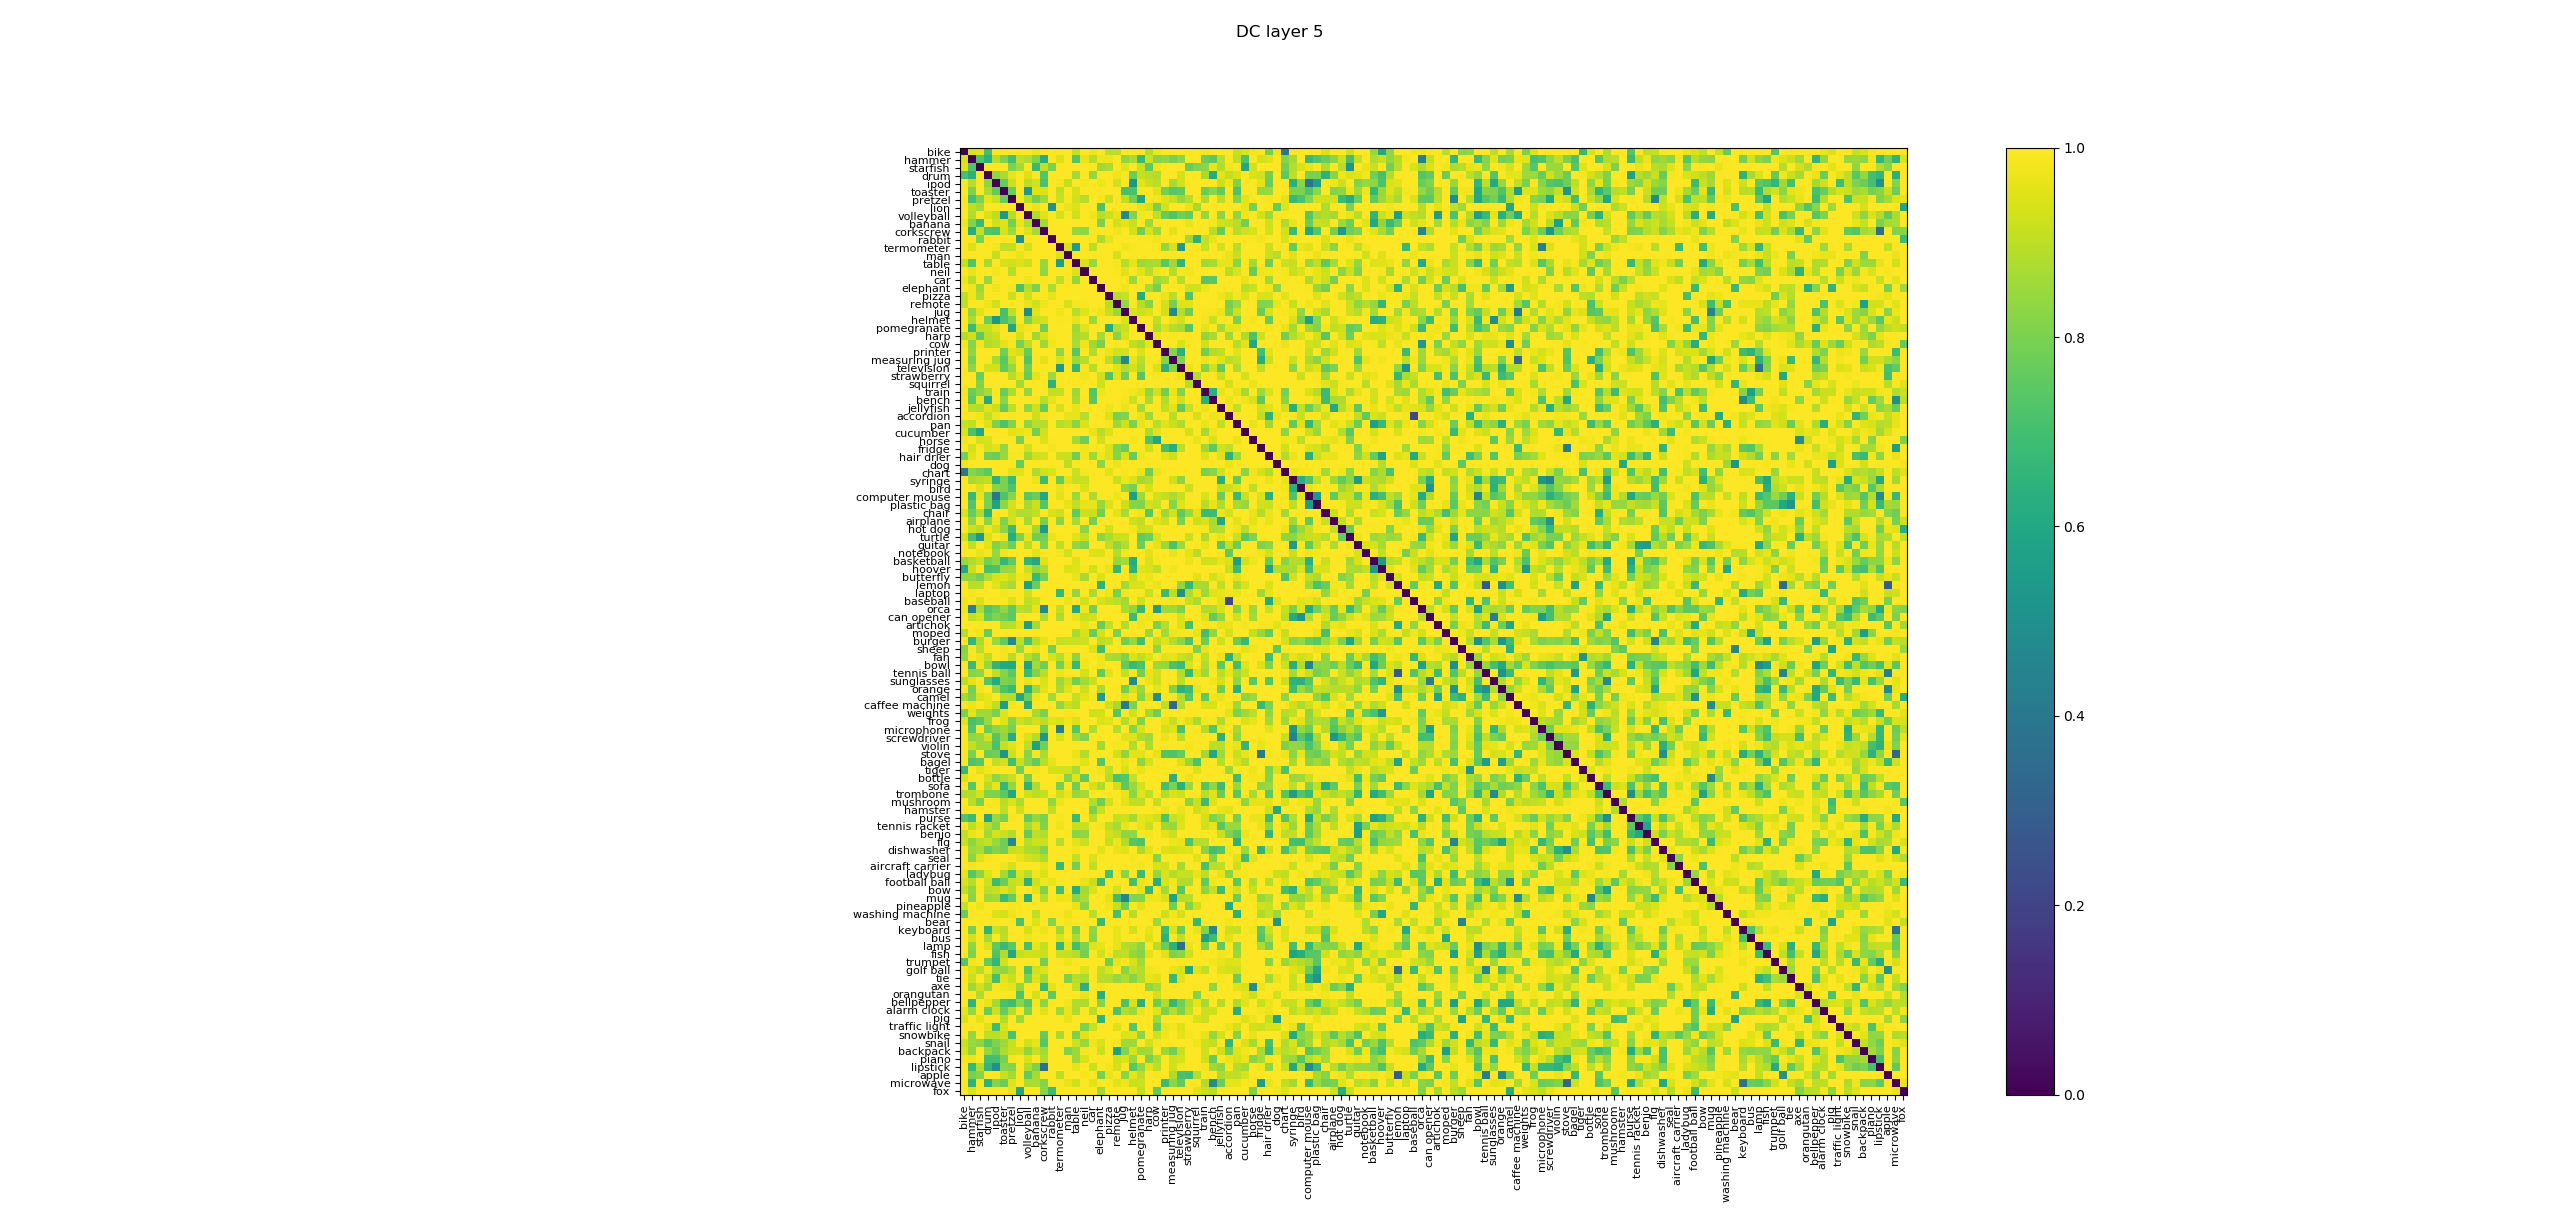
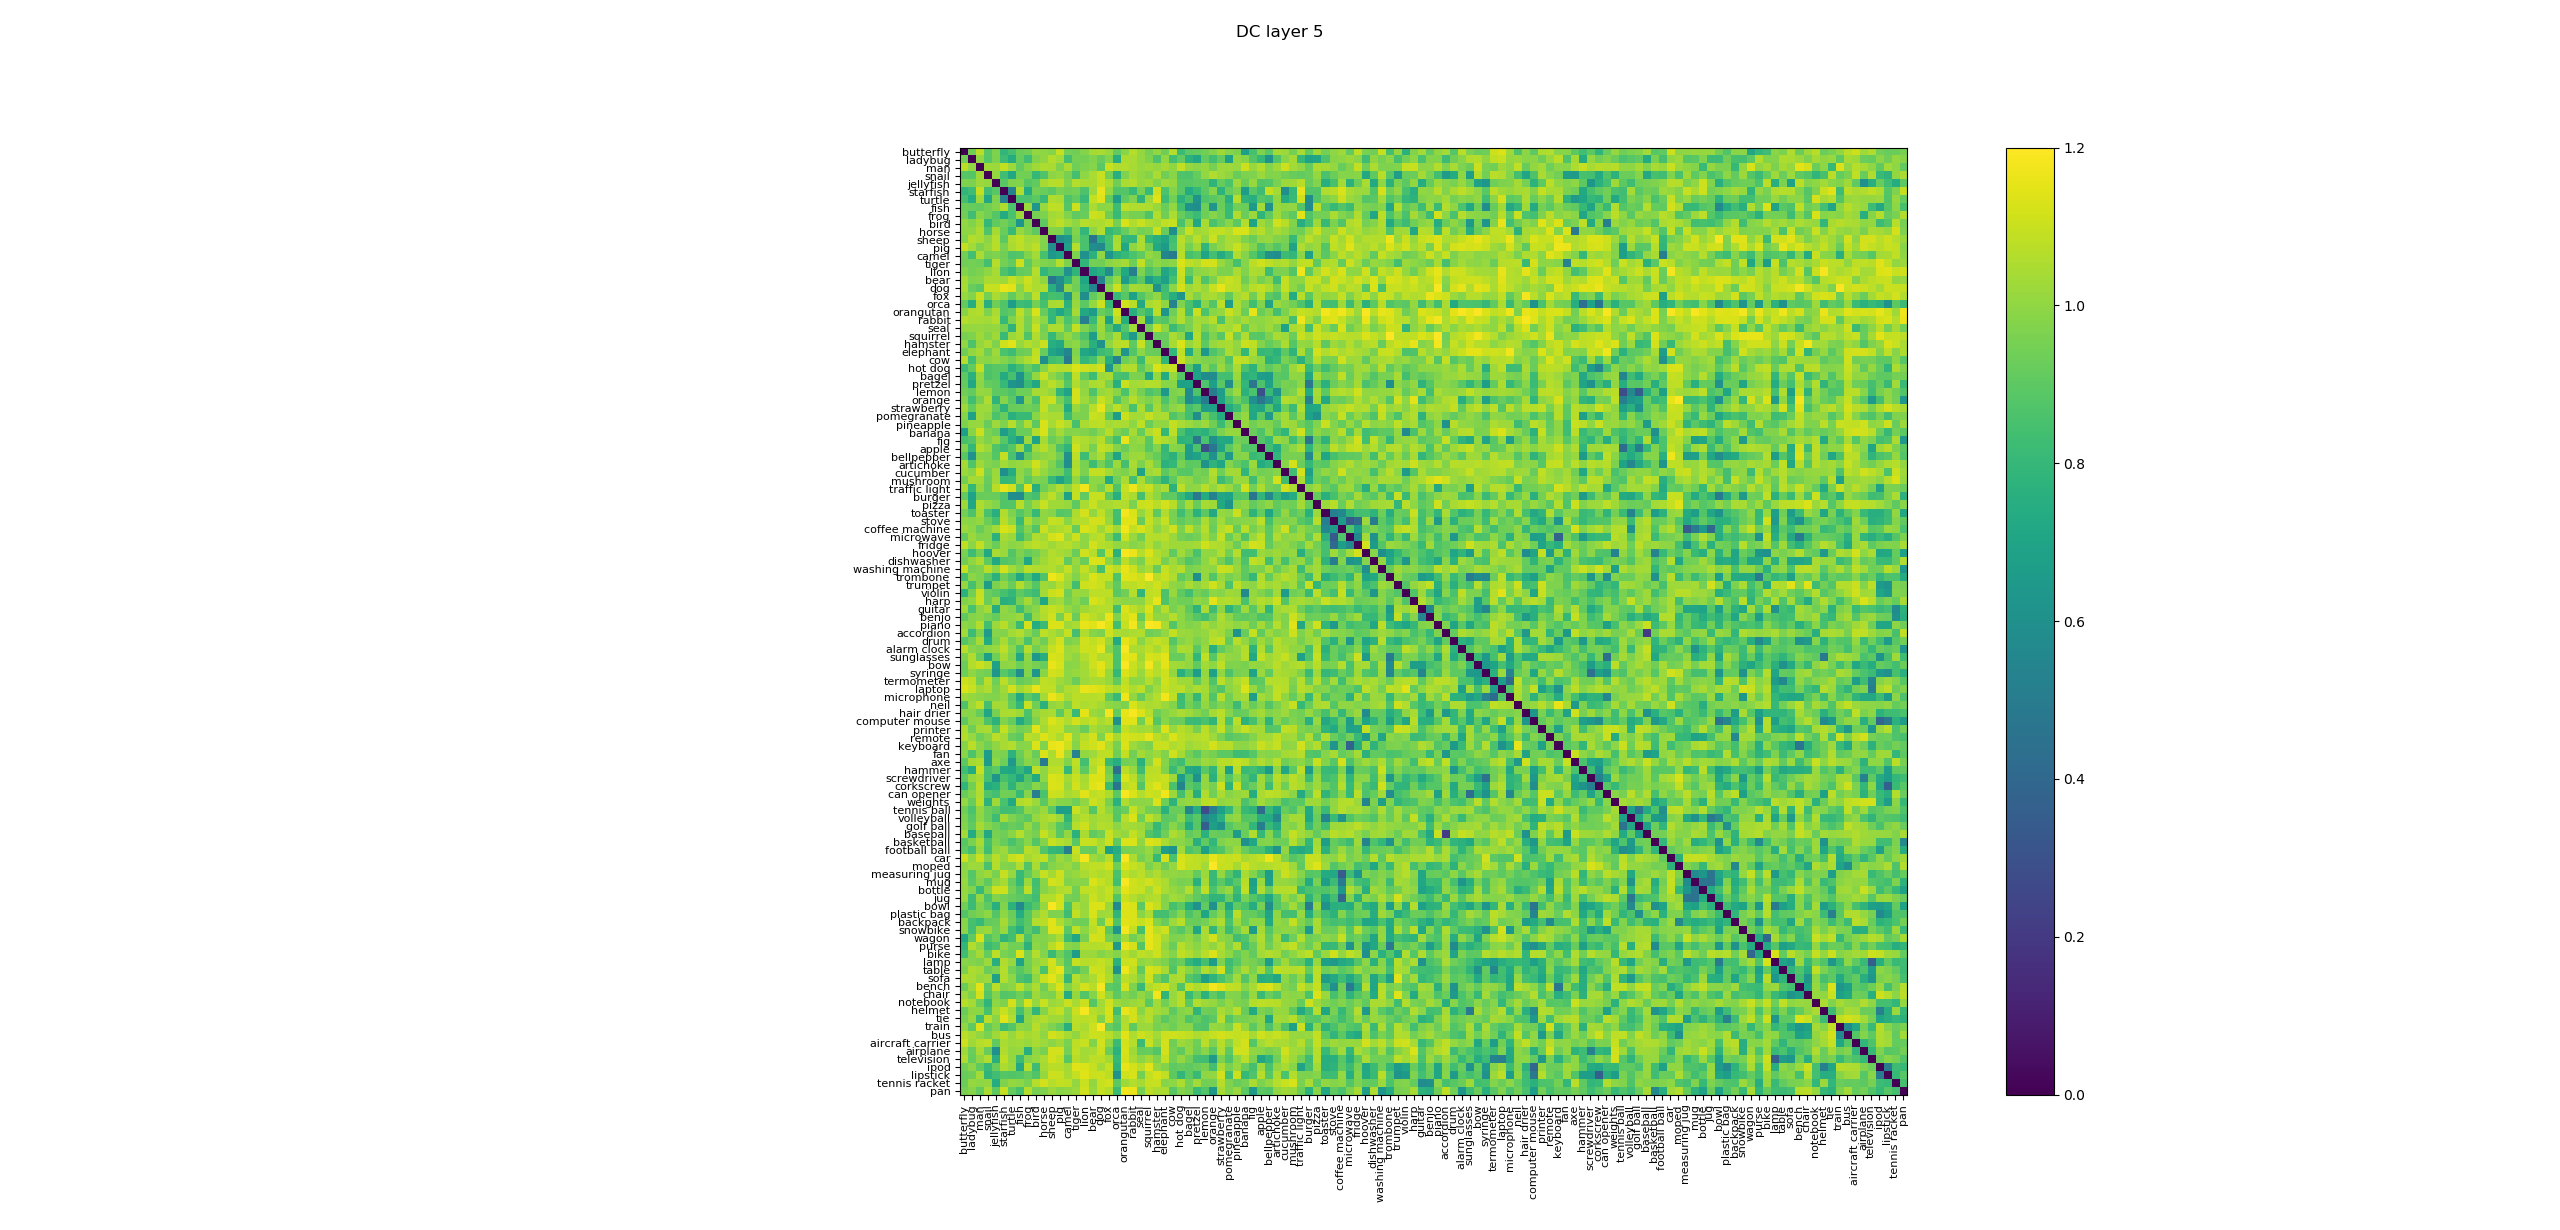
corrected lch based clustering

Changed region(s): [[0.3438, 0.1236, 0.75, 0.9577]]

diff --git a/chicy118_img_dictionaries.py b/chicy118_img_dictionaries.py
@@ -2,7 +2,7 @@ import pickle
 import os
 
 ## define images names and synsets
-img_names = {'001':'orange','002':'bench','003':'remote','004':'car','005':'stove','006':'man','007':'table','008':'apple','009':'chart','010':'dog','011':'fox','012':'bus','013':'train','014':'ipod',
+img_names = {'001':'orange','002':'bench','003':'remote','004':'car','005':'stove','006':'man','007':'table','008':'apple','009':'wagon','010':'dog','011':'fox','012':'bus','013':'train','014':'ipod',
                 '015':'pizza','016':'bird','017':'horse','018':'laptop','019':'bear','020':'basketball','021':'piano','022':'guitar','023':'baseball','024':'seal','025':'chair','026':'orangutan','027':'bowl',
                 '028':'tiger','029':'moped','030':'tie','031':'printer','032':'lion','033':'neil','034':'drum','035':'bow','036':'fig','037':'butterfly','038':'lamp','039':'banana','040':'sofa',
                 '041':'lemon','042':'hoover','043':'hammer','044':'sunglasses','045':'bike','046':'rabbit','047':'measuring jug','048':'elephant','049':'microwave','050':'volleyball','051':'strawberry',
@@ -10,13 +10,13 @@ img_names = {'001':'orange','002':'bench','003':'remote','004':'car','005':'stov
                 '064':'backpack','065':'purse','066':'hamster','067':'microphone','068':'mushroom','069':'cow','070':'violin','071':'orca','072':'cucumber','073':'termometer','074':'pineapple','075':'harp',
                 '076':'squirrel','077':'notebook','078':'trumpet','079':'plastic bag','080':'jug','081':'snail','082':'toaster','083':'benjo','084':'screwdriver','085':'snowbike','086':'pig',
                 '087':'pomegranate','088':'accordion','089':'tennis racket','090':'bagel','091':'trombone','092':'syringe','093':'fish','094':'hair drier','095':'starfish','096':'hot dog','097':'ladybug',
-                '098':'aircraft carrier','099':'jellyfish','100':'caffee machine','101':'television','102':'pretzel','103':'artichok','104':'golf ball','105':'alarm clock','106':'traffic light',
+                '098':'aircraft carrier','099':'jellyfish','100':'coffee machine','101':'television','102':'pretzel','103':'artichoke','104':'golf ball','105':'alarm clock','106':'traffic light',
                 '107':'bottle','108':'pan','109':'weights','110':'football ball','111':'bellpepper','112':'corkscrew','113':'tennis ball','114':'computer mouse','115':'mug','116':'keyboard',
                 '117':'can opener','118':'fan'}
 
-img_synsets = {'001':'orange.n.01','002':'bench.n.01','003':'remote_control.n.01','004':'car.n.01','005':'stove.n.01','006':'man.n.01','007':'table.n.02','008':'apple.n.01','009':'cart.n.01','010':'dog.n.01',
+img_synsets = {'001':'orange.n.01','002':'bench.n.01','003':'remote_control.n.01','004':'car.n.01','005':'stove.n.01','006':'man.n.03','007':'table.n.02','008':'apple.n.01','009':'cart.n.01','010':'dog.n.01',
                 '011':'fox.n.01','012':'bus.n.01','013':'train.n.01','014':'ipod.n.01','015':'pizza.n.01','016':'bird.n.01','017':'horse.n.01','018':'laptop.n.01','019':'bear.n.01','020':'basketball.n.02',
-                '021':'piano.n.01','022':'guitar.n.01','023':'baseball.n.01','024':'seal.n.09','025':'chair.n.01','026':'orangutan.n.01','027':'bowl.n.01','028':'tiger.n.02','029':'moped.n.01','030':'necktie.n.01',
+                '021':'piano.n.01','022':'guitar.n.01','023':'baseball.n.02','024':'seal.n.09','025':'chair.n.01','026':'orangutan.n.01','027':'bowl.n.01','028':'tiger.n.02','029':'moped.n.01','030':'necktie.n.01',
                 '031':'printer.n.03','032':'lion.n.01','033':'nail.n.02','034':'drum.n.01','035':'bow.n.04','036':'fig.n.04','037':'butterfly.n.01','038':'lamp.n.02','039':'banana.n.02',
                 '040':'sofa.n.01','041':'lemon.n.01','042':'vacuum.n.04','043':'hammer.n.02','044':'sunglasses.n.01','045':'bicycle.n.01','046':'rabbit.n.01','047':'beaker.n.01','048':'elephant.n.01',
                 '049':'microwave.n.02','050':'volleyball.n.02','051':'strawberry.n.01','052':'sheep.n.01','053':'frog.n.01','054':'washer.n.03','055':'electric_refrigerator.n.01','056':'turtle.n.02','057':'ax.n.01',
@@ -25,7 +25,7 @@ img_synsets = {'001':'orange.n.01','002':'bench.n.01','003':'remote_control.n.01
                 '076':'squirrel.n.01','077':'notebook.n.01','078':'cornet.n.01','079':'plastic_bag.n.01','080':'pitcher.n.02','081':'snail.n.01','082':'toaster.n.02','083':'banjo.n.01',
                 '084':'screwdriver.n.01','085':'snowmobile.n.01','086':'hog.n.03','087':'pomegranate.n.02','088':'accordion.n.01','089':'racket.n.04','090':'bagel.n.01','091':'trombone.n.01',
                 '092':'syringe.n.01','093':'fish.n.01','094':'hand_blower.n.01','095':'starfish.n.01','096':'frank.n.02','097':'ladybug.n.01','098':'aircraft_carrier.n.01','099':'jellyfish.n.02',
-                '100':'coffee_maker.n.01','101':'television_receiver.n.01','102':'pretzel.n.01','103':'artichoke.n.01','104':'golf_ball.n.01','105':'alarm_clock.n.01','106':'traffic_light.n.01',
+                '100':'coffee_maker.n.01','101':'television_receiver.n.01','102':'pretzel.n.01','103':'artichoke.n.02','104':'golf_ball.n.01','105':'alarm_clock.n.01','106':'traffic_light.n.01',
                 '107':'bottle.n.01','108':'pan.n.01','109':'weight.n.02','110':'ball.n.01','111':'sweet_pepper.n.02','112':'corkscrew.n.01','113':'tennis_ball.n.01','114':'mouse.n.04','115':'mug.n.04',
                 '116':'keyboard.n.01','117':'can_opener.n.01','118':'fan.n.01'}
 

diff --git a/cichy118_evaluate_dc_fmri.py b/cichy118_evaluate_dc_fmri.py
@@ -60,8 +60,8 @@ def lch_order(keys,names_dict,syn_dict):
     x = np.array(x,dtype = str)
     y = np.array(y, dtype = str)
     lch_list = np.array(lch_list,dtype = float)
-    lch_matrix = np.stack((x,y,lch_list),axis = 1)
-    Z = linkage(lch_matrix[:,2], 'ward')
+    lch_matrix = np.stack((x,y,(1./lch_list)),axis = 1)
+    Z = linkage(lch_matrix[:,2], 'ward')  #optimal_ordering = True
 
     labels_img = []
     for syn in synsets_list:
@@ -69,14 +69,14 @@ def lch_order(keys,names_dict,syn_dict):
             if item[1] == str(syn).split("'")[1]:
                 labels_img.append(names_dict[item[0]])
 
-    #plt.figure()
+    plt.figure()
     den = dendrogram(Z,
                 orientation='top',
                 labels=labels_img,
                 leaf_font_size=9,
-                distance_sort='descending',
+                distance_sort='ascending',
                 show_leaf_counts=True)
-    #plt.show()
+    plt.show()
     orderedNames = den['ivl']
     return orderedNames
 
@@ -93,7 +93,7 @@ def sq(x):
 
 #defines the spearman correlation
 def spearman(model_rdm, rdms):
-    #model_rdm_sq = sq(model_rdm)
+    model_rdm_sq = sq(model_rdm)
     return [stats.spearmanr(rdm, model_rdm)[0] for rdm in rdms]
 
 
@@ -110,7 +110,7 @@ def evaluate(submission, targets, target_names=['EVC_RDMs', 'IT_RDMs']):
     return out
 
 
-def plot(rdm, vmin, vmax, labels, main, outname):
+def rdm_plot(rdm, vmin, vmax, labels, main, outname):
     fig=plt.figure()
     ax = fig.add_subplot(111)
     plt.imshow(rdm,vmin=vmin,vmax=vmax)
@@ -191,22 +191,22 @@ def main(layers,act,img_names,img_synsets):
  
 
     ####### DC plots with numeric order
-    plot(dc_rdm[0], vmin = 0, vmax = 1, labels = orderedNames, main = 'DC layer 1', outname = 'rdm_dc1.png')
-    plot(dc_rdm[1], vmin = 0, vmax = 1, labels = orderedNames, main = 'DC layer 2', outname = 'rdm_dc2.png')
-    plot(dc_rdm[2], vmin = 0, vmax = 1, labels = orderedNames, main = 'DC layer 3', outname = 'rdm_dc3.png')
-    plot(dc_rdm[3], vmin = 0, vmax = 1, labels = orderedNames, main = 'DC layer 4', outname = 'rdm_dc4.png')
-    plot(dc_rdm[4], vmin = 0, vmax = 1, labels = orderedNames, main = 'DC layer 5', outname = 'rdm_dc5.png')
+    rdm_plot(dc_rdm[0], vmin = 0, vmax = 1, labels = orderedNames, main = 'DC layer 1', outname = 'rdm_dc1.png')
+    rdm_plot(dc_rdm[1], vmin = 0, vmax = 1, labels = orderedNames, main = 'DC layer 2', outname = 'rdm_dc2.png')
+    rdm_plot(dc_rdm[2], vmin = 0, vmax = 1, labels = orderedNames, main = 'DC layer 3', outname = 'rdm_dc3.png')
+    rdm_plot(dc_rdm[3], vmin = 0, vmax = 1, labels = orderedNames, main = 'DC layer 4', outname = 'rdm_dc4.png')
+    rdm_plot(dc_rdm[4], vmin = 0, vmax = 1, labels = orderedNames, main = 'DC layer 5', outname = 'rdm_dc5.png')
 
     ####### fmri plots with numeric order
-    plot(EVC, vmin = 0, vmax = 1, labels = orderedNames, main = 'EVC', outname = 'rdm_EVC.png')
-    plot(IT, vmin = 0, vmax = 1, labels = orderedNames, main = 'IT', outname = 'rdm_IT.png')
+    rdm_plot(EVC, vmin = 0, vmax = 0.8, labels = orderedNames, main = 'EVC', outname = 'rdm_EVC.png')
+    rdm_plot(IT, vmin = 0, vmax = 0.8, labels = orderedNames, main = 'IT', outname = 'rdm_IT.png')
 
     ####### DC plots with lch order
-#    plot(dc_rdm[0], vmin = 0, vmax = 1, labels = orderedNames, main = 'DC layer 1', outname = 'rdm_dc1_LCHorder.png')
-#    plot(dc_rdm[1], vmin = 0, vmax = 1, labels = orderedNames, main = 'DC layer 2', outname = 'rdm_dc2_LCHorder.png')
-#    plot(dc_rdm[2], vmin = 0, vmax = 1, labels = orderedNames, main = 'DC layer 3', outname = 'rdm_dc3_LCHorder.png')
-#    plot(dc_rdm[3], vmin = 0, vmax = 1, labels = orderedNames, main = 'DC layer 4', outname = 'rdm_dc4_LCHorder.png')
-#    plot(dc_rdm[4], vmin = 0, vmax = 1, labels = orderedNames, main = 'DC layer 5', outname = 'rdm_dc5_LCHorder.png')
+#    rdm_plot(dc_rdm[0], vmin = 0, vmax = 0.5, labels = orderedNames, main = 'DC layer 1', outname = 'rdm_dc1_LCHorder.png')
+#    rdm_plot(dc_rdm[1], vmin = 0, vmax = 1, labels = orderedNames, main = 'DC layer 2', outname = 'rdm_dc2_LCHorder.png')
+#    rdm_plot(dc_rdm[2], vmin = 0, vmax = 1.2, labels = orderedNames, main = 'DC layer 3', outname = 'rdm_dc3_LCHorder.png')
+#    rdm_plot(dc_rdm[3], vmin = 0, vmax = 1.2, labels = orderedNames, main = 'DC layer 4', outname = 'rdm_dc4_LCHorder.png')
+#    rdm_plot(dc_rdm[4], vmin = 0, vmax = 1.2, labels = orderedNames, main = 'DC layer 5', outname = 'rdm_dc5_LCHorder.png')
 
 
 if __name__ == '__main__':
